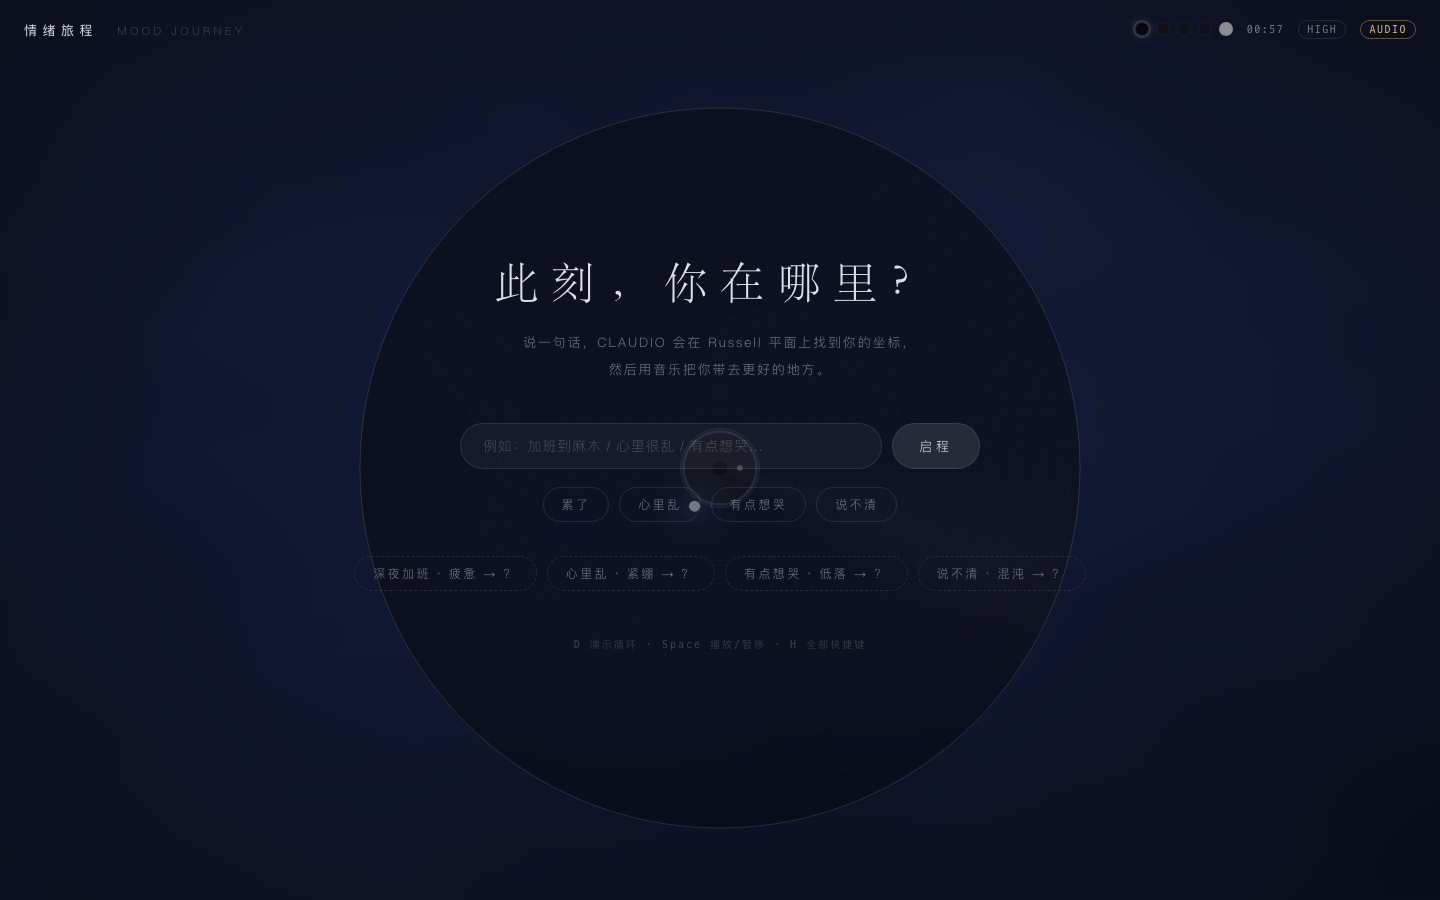
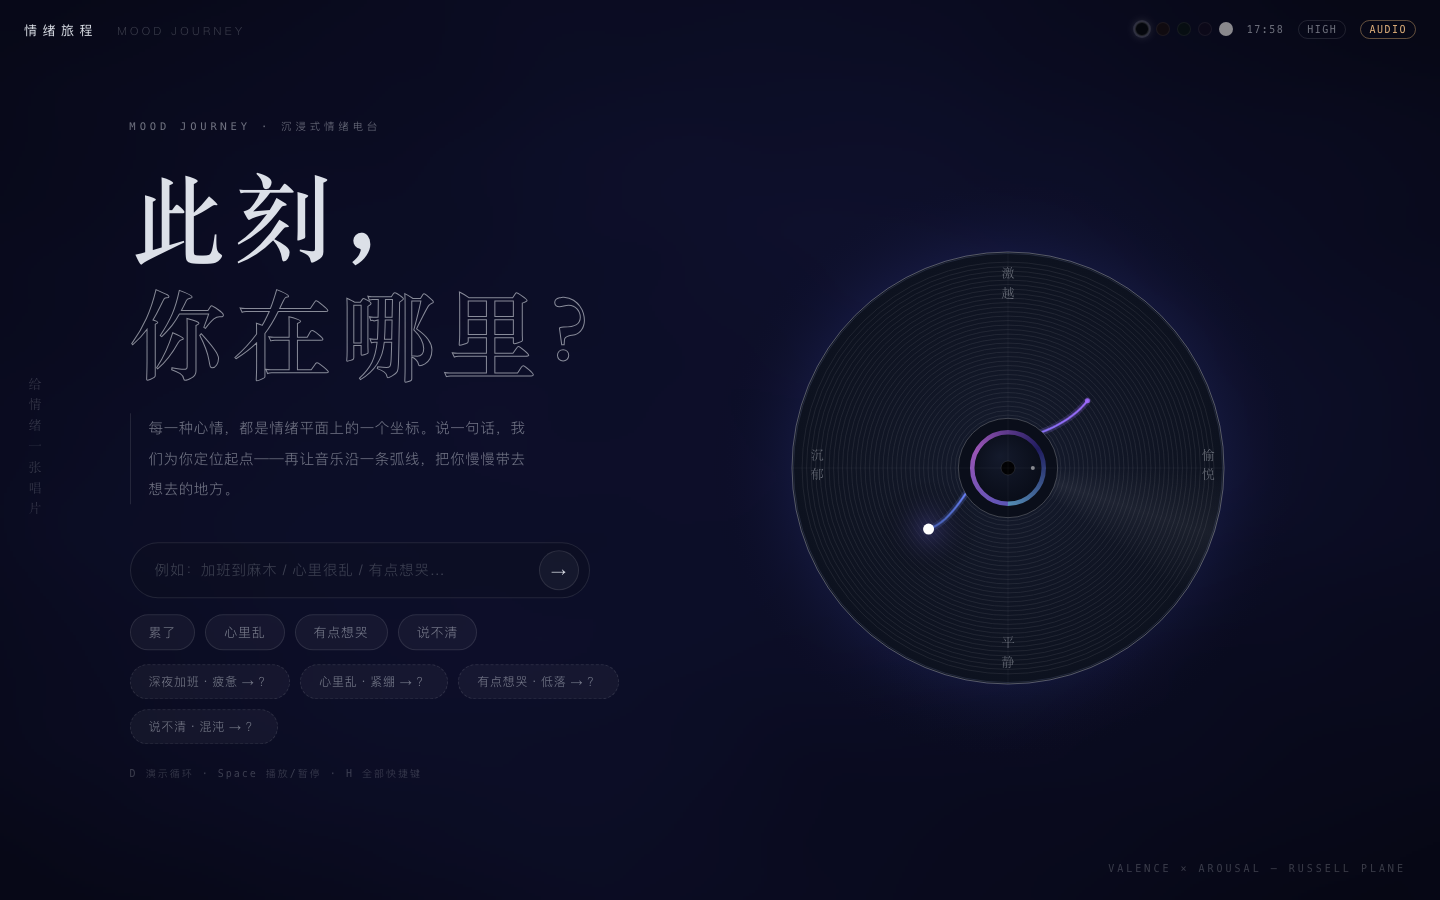
docs: README截图替换为方案C线上产品实拍（真实情绪词+真歌）

diff --git a/README.md b/README.md
@@ -53,6 +53,8 @@
 - **五套皮肤**：深海 / 暮色 / 苔原 / 雾紫 / 纸白——换的不是配色，是"房间的光"
 - **电影级渲染**：逐像素 ACES 色调映射、径向暗角、三层辉光描边，Canvas 2D 手写，零依赖
 
+下方截图是线上产品最新界面（左文右盘编辑排版风）。
+
 ![旅程](docs/screenshots/journey.png)
 ![纸白皮肤](docs/screenshots/paper.png)
 
